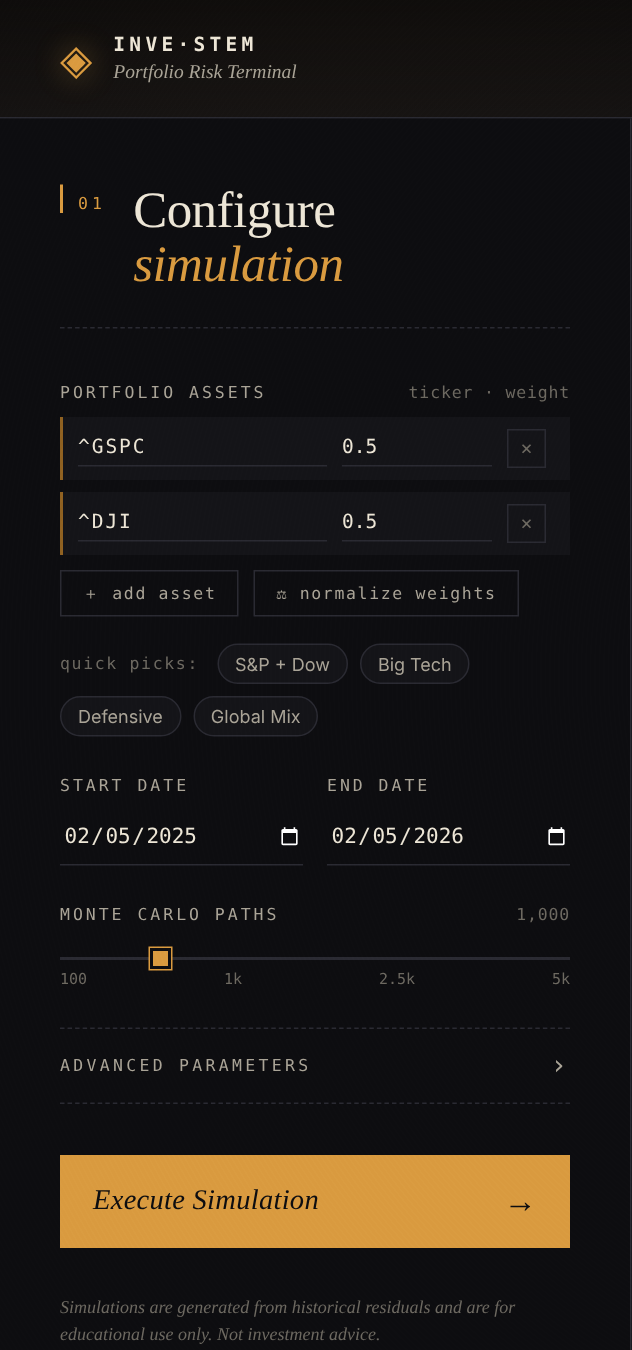
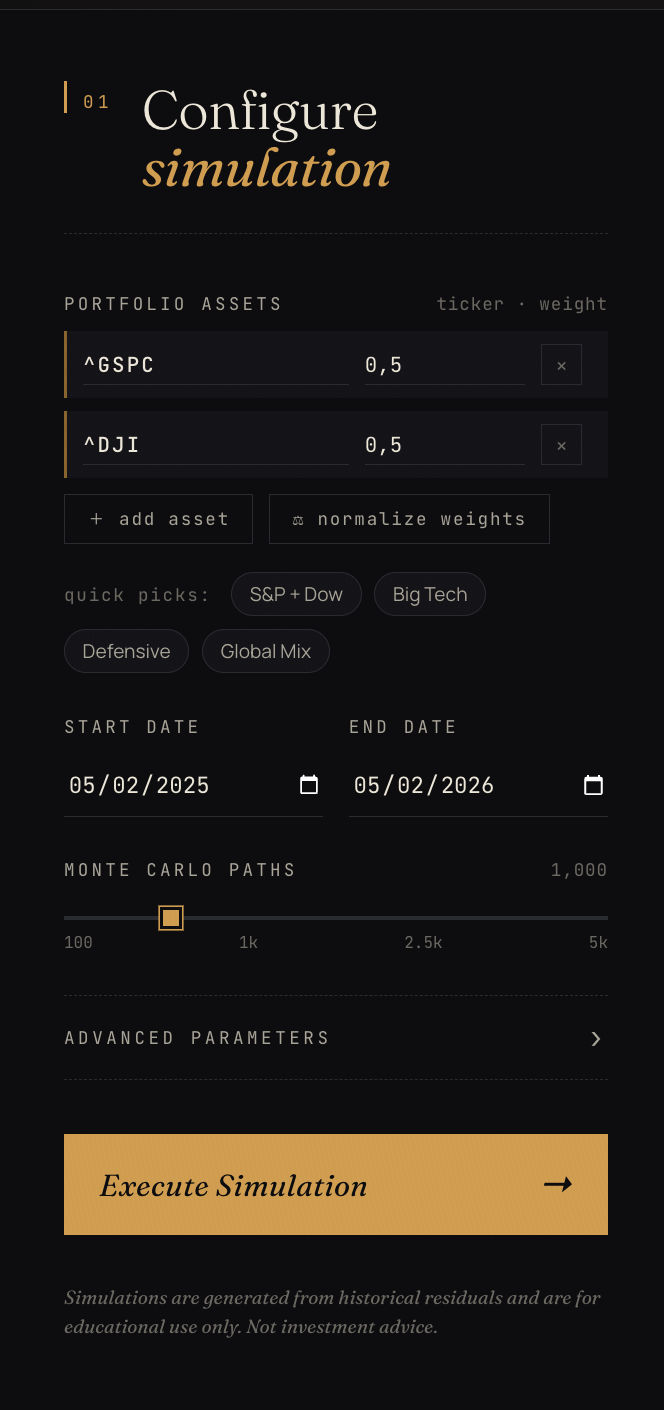
Added sliders to dashboard

diff --git a/static/app.js b/static/app.js
@@ -327,7 +327,7 @@ function drawRisk() {
   Plotly.react("chart-risk", [
     { x, y: q(tail), mode: "lines", name: `VaR ${view.conf}%`, line: { color: C.amber, width: 2 } },
     { x, y: cvarSeries(tail), mode: "lines", name: `CVaR ${view.conf}%`, line: { color: C.red, width: 2 } },
-    { x, y: R.p_loss, mode: "lines", name: "P(loss)", yaxis: "y2", line: { color: C.violet, width: 1.5, dash: "dot" } },
+    { x: x.slice(1), y: R.p_loss.slice(1), mode: "lines", name: "P(loss)", yaxis: "y2", line: { color: C.violet, width: 1.5, dash: "dot" } },
   ], layout, PLOT_CONFIG).then(() => moveMarker("chart-risk"));
 }
 

diff --git a/README.md b/README.md
@@ -19,7 +19,7 @@ It then simulates the portfolio from the start date to the end date, and plots w
 The project ships in two forms:
 
 1. **The script** — `simulation.py`, runnable standalone using IDLE. Also available as Jupyter notebook.
-2. **The web frontend** — a Flask-based browser UI built on `simulation.py`, so non-technical users can pick tickers, tweak parameters, and view results without touching code.
+2. **The web dashboard** — a Flask-based browser UI built on `simulation.py`, so non-technical users can pick tickers, tweak parameters, and explore the results in interactive charts without touching code.
 
 ---
 
@@ -108,9 +108,9 @@ CONFIG = {
 
 ---
 
-## Option B — Run the web frontend
+## Option B — Run the web dashboard
 
-The web frontend gives anyone a point-and-click interface to the simulator — no Python editing required.
+The web dashboard gives anyone a point-and-click interface to the simulator — no Python editing required.
 
 ### Start the server
 
@@ -122,7 +122,11 @@ python3 app.py
 
 Then open **http://127.0.0.1:5000** in your browser.
 
-<p align="center"><img src="docs/images/web_ui.png" width="340" alt="Web UI configuration panel"></p>
+![InveSTEM dashboard](docs/images/dashboard_overview.png)
+
+*The dashboard after a run for 50% S&P 500 and 50% Dow Jones, 1,000 paths, simulated from 5 February 2025 to 5 February 2026.*
+
+<p align="center"><img src="docs/images/web_ui.png" width="340" alt="Configuration panel"></p>
 
 ### How to use the UI
 
@@ -134,11 +138,21 @@ Then open **http://127.0.0.1:5000** in your browser.
    - **Fig A** — sample paths, percentile bands, the median and mean, and the real portfolio.
    - **Fig B** — the return distribution on the chosen day, with VaR, the mean and the actual return marked.
    - **Fig C** — how VaR, CVaR and the chance of a loss develop over the horizon.
+
+   ![Fig A, simulated paths and percentile bands](docs/images/dashboard_paths.png)
+
+   <p align="center">
+     <img src="docs/images/dashboard_distribution.png" width="49%" alt="Fig B, return distribution at the chosen day">
+     <img src="docs/images/dashboard_risk.png" width="49%" alt="Fig C, risk over the horizon">
+   </p>
+
+   *Fig B here shows 25 April 2025, just after the April sell-off. The real portfolio was down 9.5%, right at the simulated 95% VaR of −9.2%, and it recovered to +9.9% by early January 2026.*
+
 6. Drag the **Horizon** slider (or click on Fig A) to see the risk on any day, and the **Confidence** slider to change the VaR level. These update instantly, without running the simulation again. Charts can be zoomed, hovered and saved as PNG from their toolbar.
 
 ### How it works
 
-`app.py` imports `simulation.py` as a module and calls its `download_and_store(...)` and `PortfolioSimulator(...).simulate()` functions directly. The Flask layer only handles the form input, dispatches the simulation call, and renders the matplotlib output as PNGs in the browser.
+`app.py` imports `simulation.py` as a module and calls its `download_and_store(...)` and `PortfolioSimulator(...).simulate()` functions directly. The Flask layer only handles the form input and the simulation call. After a run it condenses all paths into percentiles, daily histograms and a few sample paths, so the browser can redraw the charts for any day and confidence level without simulating again. The charts use Plotly, served from the installed `plotly` package, so no CDN is needed.
 
 If you edit `simulation.py`, restart `app.py` to pick up the changes. The first run takes a little longer because `numba` JIT-compiles the GARCH loop.
 
@@ -154,7 +168,7 @@ docker compose up
 
 Then open **http://localhost:8000** in your browser. The first build takes a few minutes. Inside the container the app is served by `gunicorn` instead of the Flask development server, with a long request timeout because a simulation can take a while.
 
-Port 8000 is used on your computer because port 5000 is often taken by AirPlay Receiver on macOS. Stop the app with `Ctrl+C`, or `docker compose down`.
+Port 8000 is used on your computer because port 5000 is often taken by AirPlay Receiver on macOS. Stop the app with `Ctrl+C`, or `docker compose down`. After pulling new code, rebuild the image with `docker compose up --build`.
 
 ---
 
